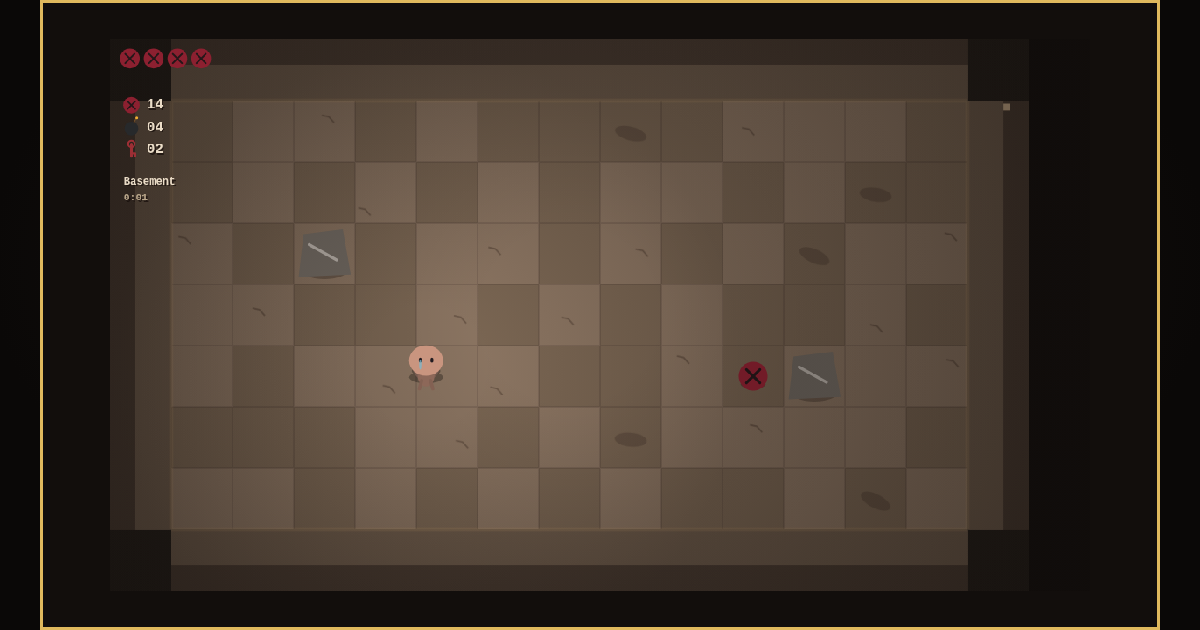
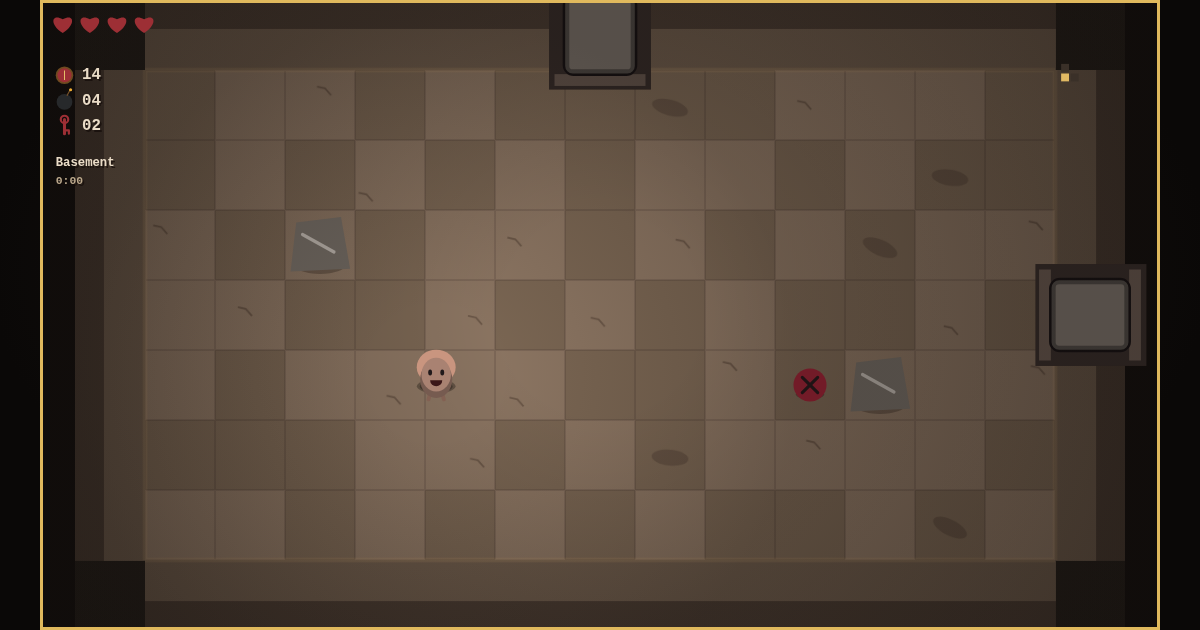
docs: refresh responsive release assets

diff --git a/RESUME.md b/RESUME.md
@@ -1,6 +1,6 @@
 # Resuming this build
 
-## Latest checkpoint — gameplay hotfix and custom domain live, 2026-08-07
+## Latest checkpoint — responsive viewport hotfix live, 2026-08-07
 
 All phases remain complete, and the broken first release has been repaired in
 commits `5b0f5df` and `b653444`. Floor generation now creates reciprocal doors,
@@ -27,6 +27,13 @@ The code, GitHub Pages setting, metadata, sitemap, README and games catalog use
 to `andrenijman.github.io`; Full SSL is active. A live Chromium session loaded
 the custom HTTPS URL, started a run and crossed a generated door with keyboard
 movement with zero console errors or exceptions.
+
+Commit `3d82bd3` fixes a Firefox/large-window regression where CSS enlarged the
+canvas without enlarging its backing buffer, cropping the HUD and every door.
+The canvas now synchronises its backing size to CSS size and device pixel ratio;
+the release suite checks a 1900×1060 viewport. HUD icon and door sprite IDs were
+also corrected so placeholders no longer ship. The custom-domain deployment was
+visually verified at 1884×1060 and at 2× device pixel ratio.
 
 For future changes, run the three release
 gates, regenerate screenshots with `node tools/card-shot.js`, commit, and push

diff --git a/docs/WORKFLOWS.md b/docs/WORKFLOWS.md
@@ -94,6 +94,15 @@ verified 10,446 rooms. `isaac.andrenijman.com` is now a proxied Cloudflare CNAME
 to `andrenijman.github.io`; the custom HTTPS deployment was verified in Chromium
 through a real keyboard-driven room transition with clean browser logs.
 
+### Responsive canvas repair (2026-08-07)
+
+Firefox exposed a second false assumption: the game used CSS canvas dimensions
+to scale the scene but left the backing buffer at 1280×720, cropping large-window
+rendering. Commit `3d82bd3` synchronises backing pixels with CSS size and DPR,
+adds a 1900×1060 browser regression check, repairs HUD/door sprite identifiers,
+and replaces placeholder exits with framed doorways. Validator, smoke 32/32 and
+balance 200/200 pass; the live custom-domain build was verified at desktop size.
+
 ## What the first interruption taught us
 
 The session hosting the first P1/P3/P4 dispatch exited while all three were in
